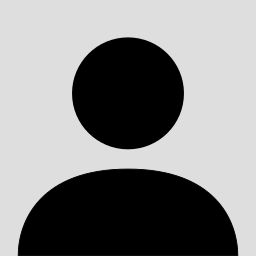
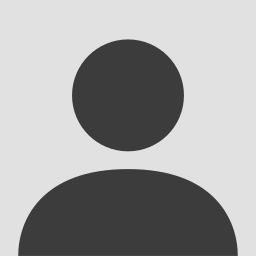
Fix user default picture and header padding

diff --git a/src/actions/entry.js b/src/actions/entry.js
@@ -101,6 +101,8 @@ export function loadList(last) {
 export function loadListMore() {
   return (dispatch, getState) => {
     const { entry: { list } } = getState();
+    // Uhh what
+    if (list == null) return loadList();
     // If it's already loading, cancel it.
     if (list.load && list.load.loading) return Promise.resolve();
     // If list is null, cancel it.
@@ -119,6 +121,8 @@ export function loadUserListMore(username) {
   return (dispatch, getState) => {
     const { entry: { userList } } = getState();
     const list = userList[username];
+    // Uhh what
+    if (list == null) return loadUserList(username);
     // If it's already loading, cancel it.
     if (list && list.load && list.load.loading) return Promise.resolve();
     // If list is null, cancel it.

diff --git a/src/components/style/Header.scss b/src/components/style/Header.scss
@@ -30,18 +30,21 @@ header {
     position: absolute;
     top: 0;
     left: 0;
-    width: 9.5rem;
+    width: 10rem;
     padding-left: 1rem;
     font-size: 1.5em;
     line-height: 2.5rem;
     font-weight: bold;
+    text-align: right;
+    padding-right: 1rem;
+    box-sizing: border-box;
     a:hover {
       text-decoration: none;
     }
   }
   .search-bar {
     padding: 0 1em;
-    margin-left: 9.5em;
+    margin-left: 10em;
     margin-right: 16em;
     height: 2.5rem;
     @media screen and (max-width: $break-small) {

diff --git a/src/actions/comment.js b/src/actions/comment.js
@@ -80,6 +80,8 @@ export function loadListMore(entry) {
   return (dispatch, getState) => {
     const { comment: { list } } = getState();
     const page = list[`${entry.author}/${entry.name}`];
+    // Whaaaat
+    if (page == null) return loadList(entry);
     // If it's already loading, cancel it.
     if (page.load && page.load.loading) return Promise.resolve();
     // If list is null, cancel it.
